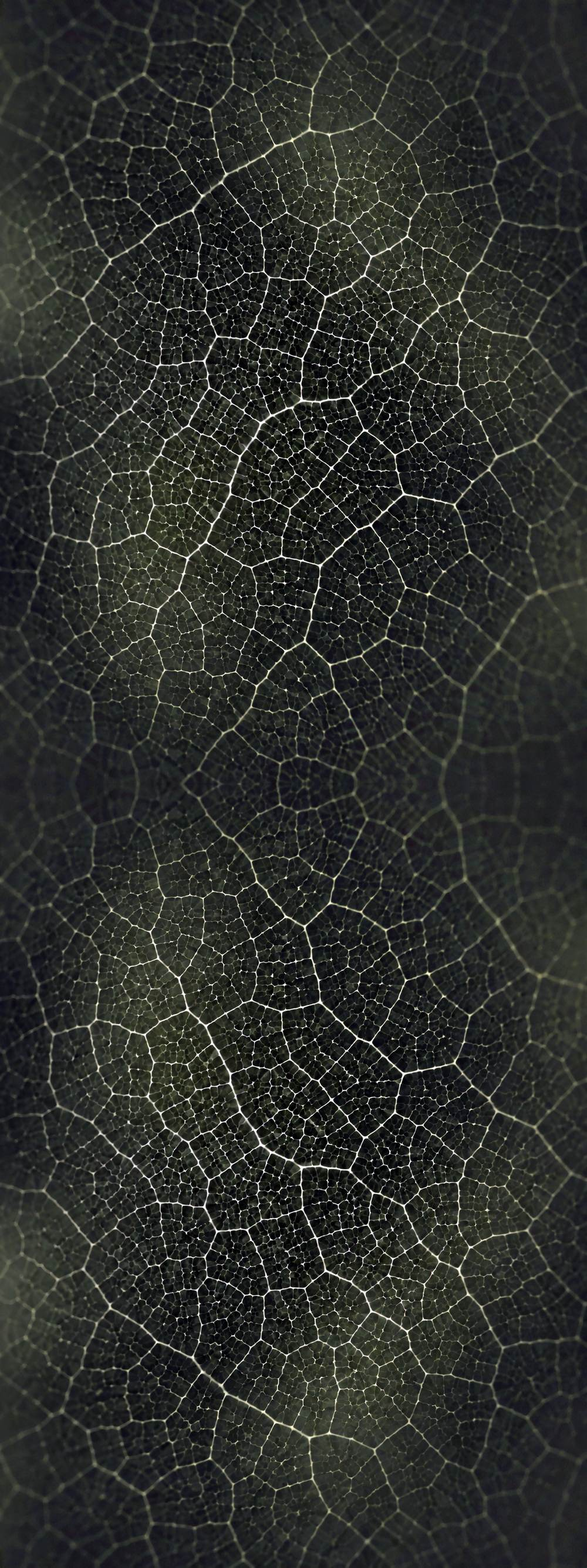
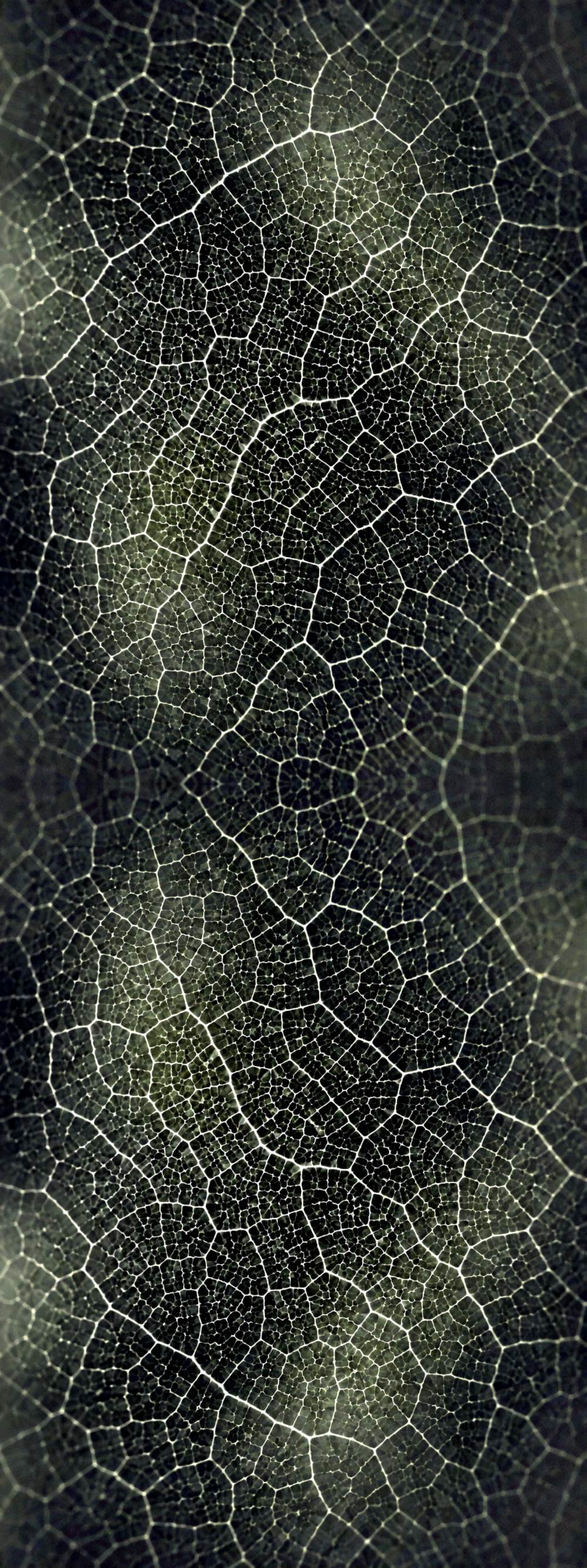
Sideskift kører let igen, og kort-overskrifter i arkets lette versaler
Ydelse: CSS-filteret på bladbaggrunden (et lag i fuld skærmstørrelse) og bundmenuens
backdrop-blur gjorde hver view transition tung. Kontrast og sløring er nu bagt ind i
billedfilen, blur'et er væk (menuen er alligevel næsten dækkende), og badge-observeren
samler mutationer til én gennemgang pr. frame.

Overskrifter: ny delt klasse .section-title (lette, spatierede versaler som arkets
HIGHER EVERYDAY) på kort-overskrifterne på Oversigt, Progression, Træning, Kalender,
Cardio, Motivation og Backup.

diff --git a/src/features/training/TrainingIdleView.tsx b/src/features/training/TrainingIdleView.tsx
@@ -107,7 +107,7 @@ export function TrainingIdleView({
         <div className="flex items-start justify-between gap-2">
           <div className="flex items-center gap-3">
             <IconBadge icon={IconDumbbell} accent="var(--color-cat-strength)" />
-            <span className="text-[16px] font-bold text-(--color-text)">Dagens plan</span>
+            <span className="section-title">Dagens plan</span>
           </div>
           {plan && !completedToday && (
             <span className="cat-badge flex items-center gap-1.5 whitespace-nowrap rounded-full border px-3 py-1 text-[12px] font-medium"
@@ -160,7 +160,7 @@ export function TrainingIdleView({
         >
           <div className="flex items-center gap-3">
             <IconBadge icon={IconActivity} accent="var(--color-cat-record)" />
-            <span className="text-[16px] font-bold text-(--color-text)">Sidste træning</span>
+            <span className="section-title">Sidste træning</span>
           </div>
           <span className="text-[15px] font-semibold text-(--color-text)">{lastSession.title}</span>
           <StatRow
@@ -179,7 +179,7 @@ export function TrainingIdleView({
       <div className="flex flex-col gap-3 rounded-2xl border border-(--color-border) bg-(--color-surface) p-4 card-shadow">
         <div className="flex items-center gap-3">
           <IconBadge icon={IconTrendUp} accent="var(--color-cat-progress)" />
-          <span className="text-[16px] font-bold text-(--color-text)">Hurtigt overblik</span>
+          <span className="section-title">Hurtigt overblik</span>
         </div>
         <div className="flex items-stretch justify-between">
           <div className="flex flex-1 flex-col items-center gap-1">
@@ -221,7 +221,7 @@ export function TrainingIdleView({
       <div className="flex items-center gap-3 rounded-2xl border border-(--color-border) bg-(--color-surface) p-4 card-shadow">
         <IconBadge icon={IconLightbulb} accent="var(--color-cat-goal)" />
         <div className="flex flex-col gap-0.5">
-          <span className="text-[16px] font-bold text-(--color-text)">Tip</span>
+          <span className="section-title">Tip</span>
           <span className="text-[13px] text-(--color-text-muted)">
             Start træningen, så får du adgang til øvelser, sættæller og varighed med det samme.
           </span>

diff --git a/src/features/overview/OverviewPage.tsx b/src/features/overview/OverviewPage.tsx
@@ -252,7 +252,7 @@ export function OverviewPage() {
       ) : (
         <div className="flex flex-col gap-2 rounded-2xl border border-(--color-border) bg-(--color-surface) p-4 card-shadow">
           <div className="flex items-center justify-between">
-            <span className="text-[16px] font-bold text-(--color-text)">Ugens mål</span>
+            <span className="section-title">Ugens mål</span>
             <Link
               to="/mal"
               className="flex items-center gap-1 text-[12.5px] font-medium text-(--color-cat-record)"
@@ -355,7 +355,7 @@ export function OverviewPage() {
 
       <div className="flex flex-col gap-3 rounded-2xl border border-(--color-border) bg-(--color-surface) p-4 card-shadow">
         <div className="flex items-center justify-between">
-          <span className="text-[13px] font-medium text-(--color-text-muted)">Kropsvægt</span>
+          <span className="section-title">Kropsvægt</span>
           {latestWeight && (
             <span className="text-[15px] font-semibold text-(--color-text)">
               {latestWeight.weight} kg
@@ -391,7 +391,7 @@ export function OverviewPage() {
       {allSets.length > 0 && (
         <div className="flex flex-col gap-3 rounded-2xl border border-(--color-border) bg-(--color-surface) p-4 card-shadow">
           <div className="flex items-center justify-between">
-            <span className="text-[13px] font-medium text-(--color-text-muted)">
+            <span className="section-title">
               Styrke-fremgang · {RANGE_LABELS[range].toLowerCase()}
             </span>
             {avgGainPercent !== undefined && (

diff --git a/src/features/data/BackupPage.tsx b/src/features/data/BackupPage.tsx
@@ -134,7 +134,7 @@ export function BackupPage() {
           >
             <IconDownload className="h-[18px] w-[18px] text-(--color-cat-progress)" />
           </span>
-          <span className="text-[15px] font-semibold text-(--color-text)">Gem en kopi</span>
+          <span className="section-title">Gem en kopi</span>
         </div>
         <p className="text-[13px] text-(--color-text-muted)">
           Lægger hele din historik — øvelser, træninger, sæt, cardio, kropsvægt, programmer og
@@ -153,7 +153,7 @@ export function BackupPage() {
           >
             <IconUpload className="h-[18px] w-[18px] text-(--color-cat-record)" />
           </span>
-          <span className="text-[15px] font-semibold text-(--color-text)">Gendan fra fil</span>
+          <span className="section-title">Gendan fra fil</span>
         </div>
         <p className="text-[13px] text-(--color-text-muted)">
           Indlæser en tidligere backup. Alt hvad du har i appen nu bliver erstattet, så brug den
@@ -187,7 +187,7 @@ export function BackupPage() {
           >
             <IconTrash className="h-[18px] w-[18px] text-(--color-danger)" />
           </span>
-          <span className="text-[15px] font-semibold text-(--color-text)">Slet alle data</span>
+          <span className="section-title">Slet alle data</span>
         </div>
         <p className="text-[13px] text-(--color-text-muted)">
           Tømmer appen helt. Brug den til at komme af med eksempeldata igen — gem en backup

diff --git a/src/features/progression/ProgressionPage.tsx b/src/features/progression/ProgressionPage.tsx
@@ -180,7 +180,7 @@ export function ProgressionPage() {
 
       <div className="flex flex-col gap-2 rounded-2xl border border-(--color-border) bg-(--color-surface) p-4 card-shadow">
         <div className="flex items-center justify-between">
-          <span className="text-[13px] font-medium text-(--color-text-muted)">
+          <span className="section-title">
             Styrke-fremgang
           </span>
           {avgGainPercent !== undefined && (
@@ -213,7 +213,7 @@ export function ProgressionPage() {
 
       <div className="flex flex-col gap-2 rounded-2xl border border-(--color-border) bg-(--color-surface) p-4 card-shadow">
         <div className="flex items-center justify-between gap-2">
-          <span className="text-[13px] font-medium text-(--color-text-muted)">
+          <span className="section-title">
             Fordeling pr. muskelgruppe
           </span>
           {muscleBalance.length > 0 && (
@@ -358,7 +358,7 @@ export function ProgressionPage() {
               </div>
 
               <div className="flex flex-col gap-2 rounded-2xl border border-(--color-border) bg-(--color-surface) p-4 card-shadow">
-                <span className="text-[13px] font-medium text-(--color-text-muted)">
+                <span className="section-title">
                   Volume pr. træning (kg × reps)
                 </span>
                 <div className="h-48" {...volumeGraf.handlers}>

diff --git a/src/index.css b/src/index.css
@@ -174,6 +174,19 @@ h1 {
 }
 
 /*
+ * Sektionsoverskrift i kort ("Ugens mål", "Styrke-fremgang"): arkets lette, spatierede versaler,
+ * som "HIGHER EVERYDAY". Én klasse, så alle kort-overskrifter følger med, hvis stilen ændres.
+ */
+.section-title {
+  font-size: 0.72rem;
+  font-weight: 400;
+  line-height: 1.3;
+  text-transform: uppercase;
+  letter-spacing: 0.16em;
+  color: var(--color-text-secondary);
+}
+
+/*
  * "Eyebrow": den lille versal-label over et tal eller en sektion. Var duplikeret som
  * text-[9.5px] uppercase tracking-[0.18em] tre steder.
  */
@@ -706,8 +719,9 @@ input {
   inset: -12px;
   /* Fotoet på højkant og spejlet én gang nedad, så det dækker en telefonskærm zoomet langt ud, uden fliser. */
   background: var(--leaf-mesh) center / cover no-repeat;
+  /* Ingen CSS-filter her: kontrast og sløring er bagt ind i billedfilen. Et filter på et lag i fuld
+     skærmstørrelse gjorde hvert sideskift (view transition) mærkbart tungt. */
   opacity: 0.2;
-  filter: blur(0.4px) contrast(1.8) brightness(1.3) saturate(0.7);
   mix-blend-mode: screen;
 }
 

diff --git a/src/features/calendar/WeekStatusCard.tsx b/src/features/calendar/WeekStatusCard.tsx
@@ -78,7 +78,7 @@ export function WeekStatusCard({
   return (
     <div className="flex flex-col gap-3 rounded-2xl border border-(--color-border) bg-(--color-surface) p-4 card-shadow">
       <div className="flex items-center justify-between gap-2">
-        <span className="text-[15px] font-semibold text-(--color-text)">Ugens status</span>
+        <span className="section-title">Ugens status</span>
         {streakWeeks > 0 && (
           <span className="flex items-center gap-1.5 text-[12.5px] font-medium text-(--color-cat-strength)">
             <IconFlame className="h-3.5 w-3.5" />

diff --git a/src/features/overview/WeeklyGoalsCard.tsx b/src/features/overview/WeeklyGoalsCard.tsx
@@ -20,7 +20,7 @@ export function WeeklyGoalsCard({ goals }: WeeklyGoalsCardProps) {
   return (
     <div className="flex flex-col gap-3 rounded-2xl border border-(--color-border) bg-(--color-surface) p-4 card-shadow">
       <div className="flex items-center justify-between gap-2">
-        <span className="text-[16px] font-bold text-(--color-text)">Ugens mål</span>
+        <span className="section-title">Ugens mål</span>
         <Link
           to="/mal"
           className="flex items-center gap-1 text-[12.5px] font-medium text-(--color-text-muted) active:opacity-70"

diff --git a/src/components/BottomNav.tsx b/src/components/BottomNav.tsx
@@ -175,7 +175,7 @@ export function BottomNav() {
 
   return (
     <nav
-      className="fixed inset-x-0 bottom-0 z-20 border-t border-(--color-border) bg-(--color-bg-elevated)/95 backdrop-blur-md"
+      className="fixed inset-x-0 bottom-0 z-20 border-t border-(--color-border) bg-(--color-bg-elevated)"
       /*
        * Rulleteksten bor i den luft, der før var polstring: safe-area + 8 px er blevet til
        * 4 px + 20 px tekst + (safe-area − 16 px). Samme totalhøjde på telefonen, så menuen flytter sig ikke.

diff --git a/src/lib/leafBadges.ts b/src/lib/leafBadges.ts
@@ -14,5 +14,13 @@ export function startLeafBadges(root: HTMLElement) {
     }
   };
   assign();
-  new MutationObserver(assign).observe(root, { childList: true, subtree: true });
+  // Én gennemgang pr. frame: et sideskift udløser hundredvis af mutationer på én gang.
+  let frame = 0;
+  new MutationObserver(() => {
+    if (frame) return;
+    frame = requestAnimationFrame(() => {
+      frame = 0;
+      assign();
+    });
+  }).observe(root, { childList: true, subtree: true });
 }

diff --git a/src/features/motivation/MotivationPage.tsx b/src/features/motivation/MotivationPage.tsx
@@ -94,7 +94,7 @@ export function MotivationPage() {
 
       <div className="mt-2 flex items-center justify-between gap-3">
         <div className="flex flex-col">
-          <h2 className="text-[15px] font-semibold text-(--color-text)">Alle citater</h2>
+          <h2 className="section-title">Alle citater</h2>
           <span className="text-[12px] text-(--color-text-muted)">
             {rotation.length === quotes.length
               ? "Alle er i rotation"

diff --git a/src/features/calendar/UpcomingWorkouts.tsx b/src/features/calendar/UpcomingWorkouts.tsx
@@ -42,7 +42,7 @@ export function UpcomingWorkouts({
         >
           <IconCalendar className="h-4 w-4 text-(--color-cat-plan)" />
         </span>
-        <span className="text-[15px] font-semibold text-(--color-text)">Kommende træninger</span>
+        <span className="section-title">Kommende træninger</span>
       </div>
 
       <div className="flex flex-col">

diff --git a/src/features/cardio/CardioPage.tsx b/src/features/cardio/CardioPage.tsx
@@ -176,7 +176,7 @@ export function CardioPage() {
         />
       </div>
 
-      <span className="text-[13px] font-medium text-(--color-text-muted)">Seneste træninger</span>
+      <span className="section-title">Seneste træninger</span>
 
       {loading && <p className="text-sm text-(--color-text-muted)">Indlæser…</p>}
 
